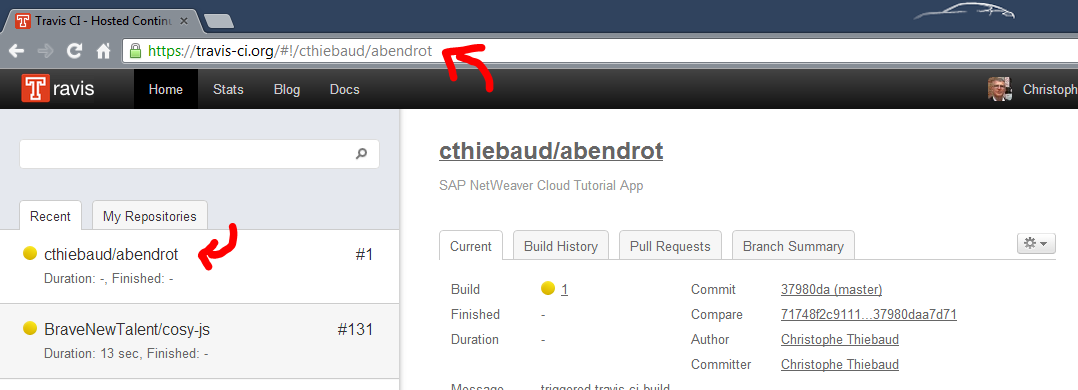
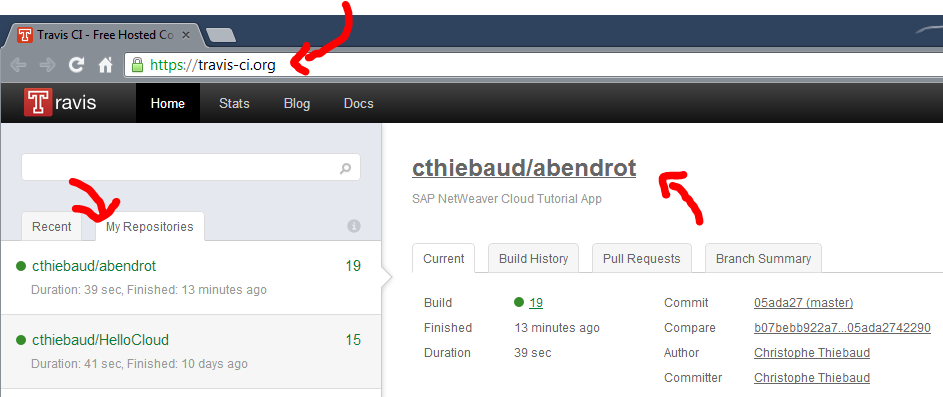
closed part 2 ; identity

diff --git a/identity.html b/identity.html
@@ -71,8 +71,10 @@
     <div class="row">
       <div class="span3 bs-docs-sidebar">
         <ul class="nav nav-list bs-docs-sidenav affix-top">
-          <li class="active"><a href="#look-in-the-motor"> <i class="icon-chevron-right"></i> Look Inside the Motor</a></li>
-          <li class=""><a href="#add-security-constraint"> <i class="icon-chevron-right"></i> Add Security Constraint</a></li>
+          <li class="active"><a href="#look-in-the-motor">    <i class="icon-chevron-right"></i> Look Inside the Motor</a></li>
+          <li class=""><a href="#add-security-constraint">    <i class="icon-chevron-right"></i> Add Security Constraint</a></li>
+          <li class=""><a href="#get-back-Tomcat-in-the-game"> <i class="icon-chevron-right"></i> Get Back Tomcat in the Game</a></li>
+          <li class=""><a href="#conclusion">                 <i class="icon-chevron-right"></i> Conclusion</a></li>
           <!-- li class=""><a href="#coming-soon"><i class="icon-chevron-right"></i> Coming soon ...</a></li -->
         </ul>
       </div>
@@ -97,13 +99,13 @@
               <div class="accordion-group">
                 <div class="accordion-heading">
                   <p>Let's write an elementary java server page to display java system properties.</p>
-                  <p>Create a new <code>spy.jsp</code> file in the <code>src/main/webapp</code> directory. Copy &amp; paste the code from <a href="https://raw.github.com/cthiebaud/abendrot/b9dd4662317c49d2da05981340e252d7d4324e14/src/main/webapp/spy.jsp">this version from github</a>. Run in your local tomcat server. Result should look like:
+                  <p>Create a new <code>spy.jsp</code> file in the <code>src/main/webapp</code> directory. Copy &amp; paste the code from <a href="https://raw.github.com/cthiebaud/abendrot/b9dd4662317c49d2da05981340e252d7d4324e14/src/main/webapp/spy.jsp">this version from github</a>. Run in your local Tomcat server. Result should look like:
                   <a class="accordion-toggle" data-toggle="collapse" data-parent="#accordion-look-in-the-motor" href="#collapse-look-in-the-motor-1"><i class="icon-chevron-right"></i></a>
                   </p>
                 </div>
                 <div id="collapse-look-in-the-motor-1" class="accordion-body collapse out">
                   <div class="accordion-inner">
-                    <img src="./images/bare_spy_in_local_tomcat.png" alt="">
+                    <img src="./images/bare_spy_in_local_Tomcat.png" alt="">
                   </div>
                 </div>
               </div>
@@ -122,13 +124,13 @@
               </div>
               <div class="accordion-group">
                 <div class="accordion-heading">
-                  <p>In your local tomcat server, the page should now look like :
+                  <p>In your local Tomcat server, the page should now look like :
                   <a class="accordion-toggle" data-toggle="collapse" data-parent="#accordion-look-in-the-motor" href="#collapse-look-in-the-motor-3"><i class="icon-chevron-right"></i></a>
                   </p>
                 </div>
                 <div id="collapse-look-in-the-motor-3" class="accordion-body collapse out">
                   <div class="accordion-inner">
-                    <img src="./images/nice_spy_in_local_tomcat.png" alt="">
+                    <img src="./images/nice_spy_in_local_Tomcat.png" alt="">
                   </div>
                 </div>
               </div>
@@ -156,13 +158,13 @@
               </div>
               <div class="accordion-group">
                 <div class="accordion-heading">
-                  <p>Looking at these properties, we learn something about this SAP NetWeaver Cloud instance : it runs Java 7, there are OSGi things and it uses Tomcat to serve HTTP.
+                  <p>Looking at these properties, we learn a few things about this SAP NetWeaver Cloud instance : for example, it runs on Java 7, it runs on OSGi and it uses Tomcat to serve HTTP requests.
                   <!-- a class="accordion-toggle" data-toggle="collapse" data-parent="#accordion-look-in-the-motor" href="#collapse-look-in-the-motor-3"><i class="icon-chevron-right"></i></a -->
                   </p>
                 </div>
                 <!-- div id="collapse-look-in-the-motor-3" class="accordion-body collapse out">
                   <div class="accordion-inner">
-                    <img src="./images/nice_spy_in_local_tomcat.png" alt="">
+                    <img src="./images/nice_spy_in_local_Tomcat.png" alt="">
                   </div>
                 </div-->
               </div>
@@ -183,14 +185,248 @@
                     <img src="icons/old-rusty-key.jpg" alt="">
                 </a>
               </li>
-              <div class="lead">Coming Soon ...</div>
-              <img src="./images/coming-soon.jpg" alt="">
+              <div class="lead">Maybe we do not want everybody to access this spy thingy. Let's implement security : only registered Sap Community Network members 
+              (well, that's <a href="http://en.wikipedia.org/wiki/SAP_AG" title='"The SAP Community Network (SCN) has more than 2 million members"'>a lot</a> ... <img src="./icons/smiley_wink.png">) will be able to access it.</div>
             </ul>              
-        </div>
+            <div class="accordion" id="accordion-add-security-constraint">
+              <div class="accordion-group">
+                <div class="accordion-heading">
+                  <p>Let's implement standard servlet security as defined in <a href="http://jcp.org/en/jsr/detail?id=315">the spec</a>.</p>
+                  <p>Create a new <code>web.xml</code> file in the <code>src/main/webapp/WEB-INF</code> directory. Copy &amp; paste the code from <a href="https://raw.github.com/cthiebaud/abendrot/990bcf71f939f14fd25faa28d8cdb83e6a1a565c/src/main/webapp/WEB-INF/web.xml">this version from github</a>. 
+                  <a class="accordion-toggle" data-toggle="collapse" data-parent="#accordion-add-security-constraint" href="#collapse-add-security-constraint-1"><i class="icon-chevron-right"></i></a>
+                  </p>
+                </div>
+                <div id="collapse-add-security-constraint-1" class="accordion-body collapse out">
+                  <div class="accordion-inner">
+<pre class="prettyprint linenums">
+&lt;login-config&gt;
+  &lt;auth-method&gt;FORM&lt;/auth-method&gt;
+&lt;/login-config&gt;
+
+&lt;security-constraint&gt;
+  &lt;web-resource-collection&gt;
+    &lt;web-resource-name&gt;Protected Area&lt;/web-resource-name&gt;
+    &lt;url-pattern&gt;/spy.jsp&lt;/url-pattern&gt;
+  &lt;/web-resource-collection&gt;
+  &lt;auth-constraint&gt;
+    &lt;role-name&gt;Everyone&lt;/role-name&gt;
+  &lt;/auth-constraint&gt;
+&lt;/security-constraint&gt;
+
+&lt;security-role&gt;
+  &lt;description&gt;All SAP NetWeaver Cloud users&lt;/description&gt;
+  &lt;role-name&gt;Everyone&lt;/role-name&gt;
+&lt;/security-role&gt;
+</pre>                    
+                  </div>
+                </div>
+              </div>
+              <div class="accordion-group">
+                <div class="accordion-heading">
+                  <p>
+                    <span>In Eclipse, in the servers view, double click on the Local Test Server for SAP NetWeaver Cloud to open the server configuration page, 
+                      select the 'Users' tab, then click New User.</span>
+                    <a class="accordion-toggle" data-toggle="collapse" data-parent="#accordion-add-security-constraint" href="#collapse-add-security-constraint-2"><i class="icon-chevron-right"></i></a>
+                  </p>
+                </div>
+                <div id="collapse-add-security-constraint-2" class="accordion-body collapse out">
+                  <div class="accordion-inner">
+                    <img src="./images/create_new_user.png" alt="">
+                  </div>
+                </div>
+              </div>
+              <div class="accordion-group">
+                <div class="accordion-heading">
+                  <p>
+                    <span>You are free to enter whatever content in the following dialog box to create a new user. Close the dialog, and do not forget to save your modifications of the server configuration. (CTRL-S) </span>
+                    <a class="accordion-toggle" data-toggle="collapse" data-parent="#accordion-add-security-constraint" href="#collapse-add-security-constraint-3"><i class="icon-chevron-right"></i></a>
+                  </p>
+                </div>
+                <div id="collapse-add-security-constraint-3" class="accordion-body collapse out">
+                  <div class="accordion-inner">
+                    <img src="./images/trazom.png" alt="">
+                  </div>
+                </div>
+              </div>
+              <div class="accordion-group">
+                <div class="accordion-heading">
+                  <p>
+                    <span>Run spy.jsp in the Local Test Server for SAP NetWeaver Cloud. Bing, an authentication form is displayed. Enter the Credentials for the user you've just created, and you are in.</span>
+                    <a class="accordion-toggle" data-toggle="collapse" data-parent="#accordion-add-security-constraint" href="#collapse-add-security-constraint-4"><i class="icon-chevron-right"></i></a>
+                  </p>
+                </div>
+                <div id="collapse-add-security-constraint-4" class="accordion-body collapse out">
+                  <div class="accordion-inner">
+                    <img src="./images/login_local.png" alt="">
+                  </div>
+                </div>
+              </div>
+              <div class="accordion-group">
+                <div class="accordion-heading">
+                  <p>This local user management provides a nice de-coupling of the development cycle from 'true' authentication providers, such as LDAP servers, that maybe more complex to configure, and less performant, or even out of reach in certain circumstances, e.g. working off-line. It is nevertheless possible to plugin locally other authentication providers. I leave that as an exercice for the reader.</p>
+                  <p>Let's see what happens in the cloud. Deploy this application with the modified (new, actually) web.xml. Again, you should be familar with the process now, but I repeat it - for the last time, promised: 
+                  <ul class="breadcrumb">
+                    <li>commit to local git<span class="divider"><i class="icon-play"></i></span></li>
+                    <li>push to remote git<span class="divider"><i class="icon-play"></i></span></li>
+                    <li>mvn clean deploy       <span class="divider"><i class="icon-play"></i></span></li>
+                    <li>grab another cup of <img src="./images/coffee-trans.jpg" style="height:18px; width:auto;"><span class="divider"><i class="icon-play"></i></span></li>
+                    <li>browse to <a id="your_app" href="#">https://&lt;your app&gt;&lt;your user ID&gt;trial.nwtrial.ondemand.com/&lt;your war name&gt;/spy.jsp</a></li>
+                  </ul> 
+                  </p>
+                  <p><span>Bing, <strong>another</strong> authentication form is displayed. Enter now <strong>your SCN  Credentials</strong>, and you are in.</span>
+                    <a class="accordion-toggle" data-toggle="collapse" data-parent="#accordion-add-security-constraint" href="#collapse-add-security-constraint-5"><i class="icon-chevron-right"></i></a>
+                  </p>
+                  </p>
+                </div>
+                <div id="collapse-add-security-constraint-5" class="accordion-body collapse out">
+                  <div class="accordion-inner">
+                    <img src="./images/login_cloud.png" alt="">
+                  </div>
+                </div>
+                <div>
+                  <p>
+                  Authentication on the cloud involves the <a href="http://en.wikipedia.org/wiki/SAML_2.0">Security Assertion Markup Language 2.0 (SAML 2.0)</a> protocol. 
+                  </p>
+                  <p>
+                  Your application subcontracts authentication to the the SAP Community Network (cf. the URL in the screen shot above : https://<strong>accounts.sap.com</strong>/...). 
+                  </p>
+                  <p>
+                  For this, a bi-directionnal trust relationship must exist between the your app and SCN: your app trusts that the authentication token provided by SCN truly identifies <strong>you</strong>, 
+                  but before, SCN has trusted <strong>your app</strong> to be entitled to query - and make good usage - of authentication tokens. Fortunately, SCN and NetWeaver Cloud are managed by the same guy (SAP), which helps fostering a strong trust relationship.
+                  </p>
+                  <p>
+                  For SAP NetWeaver Cloud customers that have their own authentication provider. e.g. corporate LDAP, it is possible to setup the same trust relationship and communication process. It is as well possible for the authentication provider of customer to pass extended attributes to the application, such as group information (e.g. admins, super-users, users, guests), upon which the application can react accordingly.
+                  </p>
+                  <p>
+                    However, to my knowledge, there is currently no way to subcontract the authentication to 3rd party identity providers, such as Facebook, Twitter, etc. There is little doubt that this feature will be heavily requested.
+                  </p>
+                <div>
+              </div>
+            </div>
+          </div>
         </section>
 
+        <!-- Coming soon
+        ================================================== -->
+        <section id="get-back-Tomcat-in-the-game">
+          <div class="page-header">
+            <h1>3. Get Back Tomcat in the Game</h1>
+          </div>
+          <div class="row-fluid">
+            <ul class="thumbnails">
+              <li class="span1">
+                <span class="thumbnail">
+                    <img src="icons/apache-Tomcat-150x150.png" alt="">
+                </a>
+              </li>
+              <div class="lead">Tomcat standalone server needs a little uplift to be able to handle authentication. Only for Windows. Sob. <img src="./icons/smiley_frown.png"></div>
+            </ul>
+            <p class="lead"></p>
+            <div class="accordion" id="accordion-get-back-Tomcat-in-the-game">
+              <div class="accordion-group">
+                <div class="accordion-heading">
+                  <p>You may have noticed that the previous section did not show how to run your application in Tomcat, now that servlet security is enabled.</p>
+                  <p>U
+                    nfortunately, with this instruction in the web.xml ...
+<pre class="prettyprint linenums">
+&lt;login-config&gt;
+  &lt;auth-method&gt;FORM&lt;/auth-method&gt;
+&lt;/login-config&gt;
+</pre>              
+                    ... the servlet container expects a html FORM to be implemented somewhere to handle the authentication. SAP NetWeaver Cloud local as well as remote systems provide a default HTML form (we've seen both).
+                    However, Tomcat has no default. Trying to run <code>spy.jsp</code> on Tomcat leads to a miserable "No login page was defined for FORM authentication" error message:
+                    <a class="accordion-toggle" data-toggle="collapse" data-parent="#accordion-get-back-Tomcat-in-the-game" href="#collapse-get-back-Tomcat-in-the-game-1"><i class="icon-chevron-right"></i></a>
+                  </p>
+                </div>
+                <div id="collapse-get-back-Tomcat-in-the-game-1" class="accordion-body collapse out">
+                  <div class="accordion-inner">
+                    <img src="./images/login_Tomcat_error.png" alt="">
+                  </div>
+                </div>
+              </div>
+              <div class="accordion-group">
+                <div class="accordion-heading">
+                  <p>At least the error message is clear. We are left with these options:</p>
+                  <ol>
+                    <li>Implement such a FORM. Not trivial and above all, the application code will diverge betwenn Tomcat and SAP NetWeaver Cloud.</li>
+                    <li>Comment and un-comment the security section in web.xml at each switch from testing with Tomcat to testing with SAP NetWeaver Cloud. I even did that for some time. No comment.</li>
+                    <li>As a variation of 2., implement maven resources filtering or plugin to rewrite the web.xml file at build time based on some profile or parameter. Tecnically feasible, but a pain in the ...</li>
+                    <li>Stop using Tomcat. But we need Tomcat ! First to ensure that our application is not overly coupled with SAP NetWeaver Cloud, second, because hot reloading of jsp is unvaluable to speed up development, and I did not find how to get hot reload with SAP NetWeaver Cloud local test server. If you know that it is possible, please wave your hand.</li>
+                  </ol>
+                  <p>Enter <a href="http://dblock.github.com/waffle/">WAFFLE</a>, open source <i>Windows &amp; Active Directory Authentication Framework for C# and Java.</i>. Download latest version from  <a href="https://github.com/downloads/dblock/waffle/Waffle.1.5.zip">here</a>, uzip it it somewhere and copy ...
+<pre class="prettyprint linenums">
+jcl-over-slf4j-1.7.2.jar
+jna-3.5.0.jar
+platform-3.5.0.jar
+slf4j-api-1.7.2.jar
+waffle-jna.jar
+waffle-tomcat7.jar
+</pre>
+                    ... from <code>&lt;waffle&gt;/Bin</code>  to <code>&lt;apache-tomcat&gt;/lib</code>. </p>
+
+                    <p>Open <code>context.xml</code> in Package Explorer > Servers > Tomcat v7.0 Server:
+                    <a class="accordion-toggle" data-toggle="collapse" data-parent="#accordion-add-security-constraint" href="#collapse-get-back-Tomcat-in-the-game-2"><i class="icon-chevron-right"></i></a>
+
+                <div id="collapse-get-back-Tomcat-in-the-game-2" class="accordion-body collapse out">
+                  <div class="accordion-inner">
+                    <img src="./images/tomcat_waffle_config.png" alt="">
+                  </div>
+                </div>
+                <div class="accordion-heading">
+                  <p> Add 
+<pre class="prettyprint linenums">
+&lt;!-- https://github.com/dblock/waffle/blob/master/Docs/tomcat/TomcatSingleSignOnValve.md --&gt;
+&lt;Valve className="waffle.apache.NegotiateAuthenticator" /&gt;
+&lt;Realm className="waffle.apache.WindowsRealm" /&gt;
+</pre>
+                    <p>to install the waffle authentication provider for Windows in Tomcat. Stop and restart tomcat, run spy.jsp, and bingo !
+
+                    <a class="accordion-toggle" data-toggle="collapse" data-parent="#accordion-add-security-constraint" href="#collapse-get-back-Tomcat-in-the-game-3"><i class="icon-chevron-right"></i></a>
+                  </p>
+                </div>
+                <div id="collapse-get-back-Tomcat-in-the-game-3" class="accordion-body collapse out">
+                  <div class="accordion-inner">
+                    <img src="./images/login_tomcat_ok.png" alt="">
+                  </div>
+                </div>
+              </div>
+              <div> see <a href="https://github.com/dblock/waffle/tree/master/Docs/tomcat">here</a> for more options to configure Tomcat with waffle.</div>
+            </div>
+          </div>
+        </section>
+
+        <!-- Conclusion
+        ================================================== -->
+        <section id="conclusion">
+          <div class="page-header">
+            <h1>12. Conclusion</h1>
+          </div>
+          <div class="row-fluid">
+            <ul class="thumbnails">
+              <li class="span2">
+                <span class="thumbnail">
+                    <img src="icons/old-woman-looking-bored-at-her-laptop.jpg" alt="">
+                </a>
+              </li>
+              <div class="lead">Still with me ? The <strong>abendrot</strong> spy is here:<div>
+              <p><a href="http://www.abendrot.org/spy.jsp">http://www.abendrot.org/spy.jsp</a></p>
+            </ul>
+            <p>You must be registered as a <a href="http://scn.sap.com/welcome">SAP Community Network</a> member to access it. Hey, it's SAP! :)<p> 
+            <p><a href="http://en.wiktionary.org/wiki/tsch%C3%BCss">Tschüß!</a></p>
+            <p>PS.
+<a href="https://twitter.com/abenrot_chef" class="twitter-follow-button" data-show-count="false" data-size="large" data-show-screen-name="false" data-dnt="true">Follow @abenrot_chef</a>
+<script>!function(d,s,id){var js,fjs=d.getElementsByTagName(s)[0];if(!d.getElementById(id)){js=d.createElement(s);js.id=id;js.src="//platform.twitter.com/widgets.js";fjs.parentNode.insertBefore(js,fjs);}}(document,"script","twitter-wjs");</script>              
+<strong>abendrot</strong> on Twitter to be notified of the coming chapters (always, if time permits, no promises).
+            </p>
+
+            <p style=" text-align: center;">
+              <img src="images/abendrot-600x400.jpg" class="center">
+            </p>
+          </div>
+        </section>
 
         <!-- Coming soon
+
         ================================================== - - >
         <section id="coming-soon">
           <div class="page-header">

diff --git a/index.html b/index.html
@@ -843,7 +843,7 @@ jdk:
               <div class="accordion-group">
                 <div class="accordion-heading">
                   <p>
-                    <span>On <a href="https://travis-ci.org/">https://travis-ci.org/</a>, you should be able to find your build, as I did find mine :</span>
+                    <span>On <a href="https://travis-ci.org/">https://travis-ci.org/</a>, you'll find your build under the tab 'My Repositories' :</span>
                     <a class="accordion-toggle" data-toggle="collapse" data-parent="#accordion-coming-soon" href="#collapse-travis-ci-2"><i class="icon-chevron-right"></i></a>
                   </p>
                 </div>
@@ -1139,17 +1139,17 @@ $ mvn nwcloud:status
 <pre>
 $ mvn clean deploy -DaltDeploymentRepository=[your_repo_id]::default::[your_repo_url]
 </pre>                    
-                    <span>cf. <a href="http://maven.apache.org/plugins/maven-deploy-plugin/deploy-mojo.html">Maven Deploy Plugin</a> for <code>-DaltDeploymentRepository</code> syntax</span>. If you do not know what it is , and you do not want to take a maven tutorial, enter : 
+                    <span>cf. <a href="http://maven.apache.org/plugins/maven-deploy-plugin/deploy-mojo.html">Maven Deploy Plugin</a> for <code>-DaltDeploymentRepository</code> syntax</span>. If you do not know what that means, and have no time for a maven tutorial right now, enter : 
 <pre>
 $ mvn clean deploy -DaltDeploymentRepository=my_repo::default::file:///tmp/my_repo
 </pre>                    
-                    a You may have a peek at the maven ouput of the above command in my case <a href="./sample_deploy_ouput.txt">here</a>.</span>
-                  </p>
+                    This will deploy to your file system, in the /tmp/my_repo directory (of your current drive, if you're on Windows). Here is a sample ouput :
+                    <a class="accordion-toggle" data-toggle="collapse" data-parent="#accordion-auto-deploy" href="#collapse-auto-deploy-12"><i class="icon-chevron-right"></i></a>
+                    </p>
                 </div>
                 <div id="collapse-auto-deploy-12" class="accordion-body collapse out">
                   <div class="accordion-inner">
-<pre>
-</pre>                    
+                    <iframe src='sample_deploy_ouput.txt' style="width:100%; height: 460px; border: none;"></iframe>
                   </div>
                 </div>
               </div>
@@ -1296,6 +1296,11 @@ $ mvn clean deploy -DaltDeploymentRepository=my_repo::default::file:///tmp/my_re
             </ul>
             <p>In addition, I'd like show how IOC injection with Guice, REST services with Jersey and <i>(coming soon)</i> work seamlessly with NetWeaver Cloud.</p>
             <p><a href="http://en.wiktionary.org/wiki/tsch%C3%BCss">Tschüß!</a></p>
+            <p>PS.
+<a href="https://twitter.com/abenrot_chef" class="twitter-follow-button" data-show-count="false" data-show-screen-name="false">Follow @abenrot_chef</a>
+<script>!function(d,s,id){var js,fjs=d.getElementsByTagName(s)[0];if(!d.getElementById(id)){js=d.createElement(s);js.id=id;js.src="//platform.twitter.com/widgets.js";fjs.parentNode.insertBefore(js,fjs);}}(document,"script","twitter-wjs");</script>
+<strong>abendrot</strong> on Twitter to be notified of the coming chapters (always, if time permits, no promises).
+            </p>
             <p style=" text-align: center;">
               <img src="images/abendrot-600x400.jpg" class="center">
             </p>
